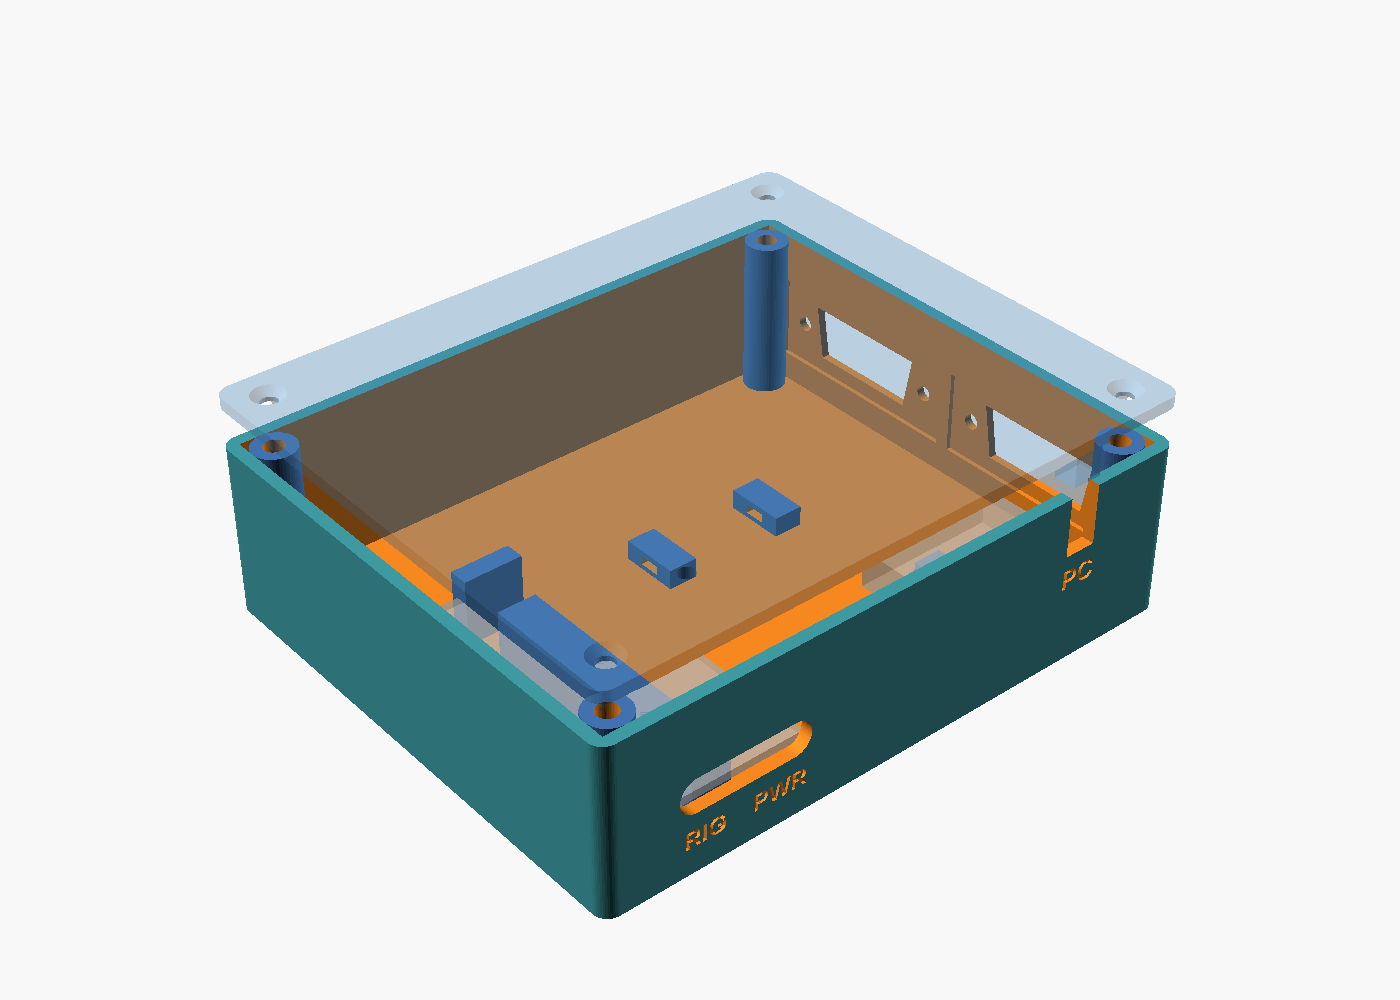
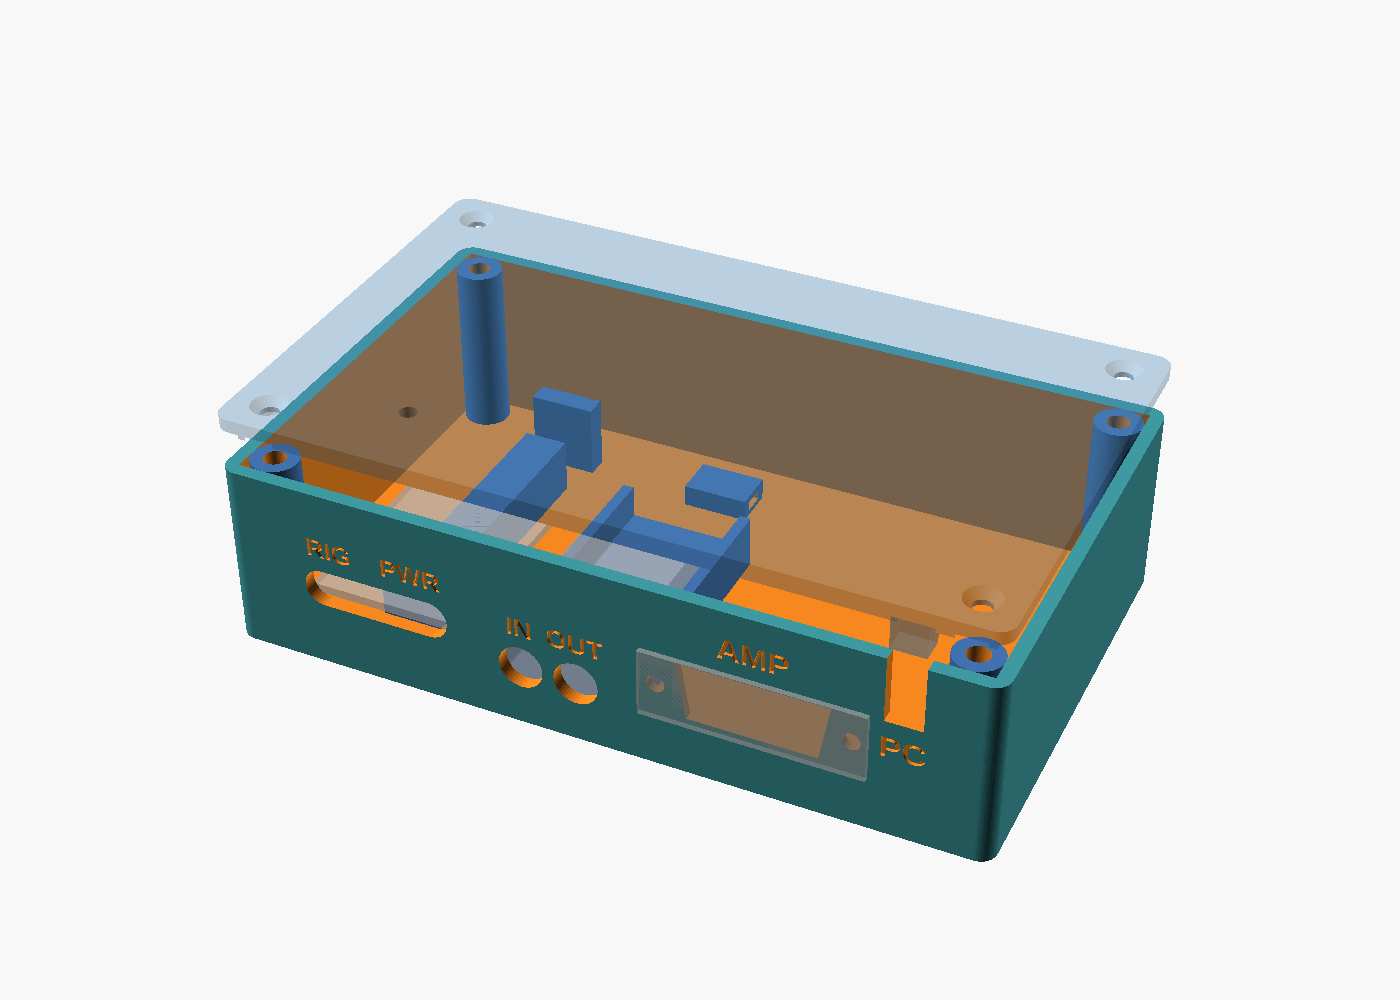
Enclosure draft 2: one connector panel, dongle jacks on the panel
Connectors were spread over two walls; everything now leaves on the back
panel. The radio's panel DB15 and internal resistor pad are replaced by a
separate DB15 -> 2 x 1/8" cable (resistors in the plug hood) into the
CM108's own jacks, which face the panel. Fewer parts, and the cable can be
bench-tested before the box is printed.

Changed region(s): [[0.1536, 0.155, 0.86, 0.93]]

diff --git a/enclosure/README.md b/enclosure/README.md
@@ -1,59 +1,77 @@
 # Enclosure
 
-3D-printed box for the S3 board, the CM108 audio dongle and the two DB15
-panel connectors. Plan and wiring: [`docs/BOX_PLAN.md`](../docs/BOX_PLAN.md).
+3D-printed box for the S3 board and the CM108 audio dongle. Plan and
+wiring: [`docs/BOX_PLAN.md`](../docs/BOX_PLAN.md).
 
 ![preview](preview.png)
 
-**Status: first draft (2026-11-14), not printed.** Outer size 125 × 105 ×
-36.8 mm. The base and lid render without errors. Several sizes are datasheet
-values or guesses. They are marked `CHECK` in `rgo_box.scad`. Measure the
-parts and correct the values before printing.
+**Status: draft 2 (2026-11-14), not printed.** Outer size 137 × 83 ×
+36.8 mm. The base and lid render without errors and all layout checks pass.
+Some sizes are datasheet values or guesses. They are marked `CHECK` in
+`rgo_box.scad`; measure the parts and correct those values before printing.
 
-## Parts
+## Panel
 
-- **Base:** the floor and walls, with everything mounted in it.
-  - **Back wall:** one slot over both USB-C sockets of the S3. RIG (native)
-    is on the left, PWR (COM) on the right, seen from outside. It also has a
-    notch at the top for the PC cable.
-  - **Right end wall:** DB15 male (RADIO) and DB15 female (AMP). The wall is
-    thinned to 1.6 mm around each one, so the jack screws reach.
-  - **Board mounting:** the S3 sits on a rib between its header rows, held
-    with foam tape. A stop block behind it stops the board moving back when a
-    cable is plugged in.
-  - **Zip-tie anchors:** three, for the dongle and the USB extension socket.
-  - **Corner posts:** four, with M3 heat-set inserts.
-- **Lid:** a flat plate with a locating lip and 4 countersunk M3 holes.
-  - A tab closes the cable notch down to cable size, so the USB-A plug never
-    has to go through a hole.
-  - A 3.2 mm window sits over the status LED.
+All connectors are on one panel, the back wall. Seen from outside, left to
+right:
+
+| Label | What | Cable |
+|---|---|---|
+| RIG | S3 native USB-C | → radio USB-B (CAT) |
+| PWR | S3 COM USB-C | ← USB charger (USB-A → USB-C cable) |
+| IN | CM108 mic jack (1/8") | ← radio RX audio |
+| OUT | CM108 headphone jack (1/8") | → radio TX audio |
+| AMP | DB15 female | → SPE amp (DB15 M–M cable) |
+| PC | Notch for the dongle's USB extension cable | → PC |
+
+The radio audio cable has a DB15 male plug on ACC1, with the resistors
+inside its hood, and two 1/8" plugs on the other end. It is not part of the
+box. See `docs/BOX_PLAN.md`.
+
+## Inside
+
+- **S3 board:** its two USB-C sockets show through one slot. It sits on a
+  rib between its header rows, held with foam tape. A stop block behind it
+  keeps it from moving back when a cable is plugged in.
+- **CM108 dongle:** lies in a cradle with its jack end against the panel. A
+  zip tie through the cradle floor holds it. The USB extension socket sits
+  behind it on a zip-tie anchor.
+- **DB15 for the amp:** the wall is thinned to 1.6 mm around it, so the jack
+  screws reach.
+- **PC cable notch:** a tab on the lid closes it down to cable size, so the
+  USB-A plug never has to go through a hole.
+- **Lid:** 4 × M3 countersunk screws into heat-set inserts in the corner
+  posts. A 3.2 mm window sits over the status LED.
 
 ## Check before printing
 
 | Parameter | Default | Measure |
 |---|---|---|
+| `dongle_l`, `dongle_w`, `dongle_h` | 50 × 20 × 10 | CM108 dongle, from the jack end to the end of its USB plug |
+| `jack_pitch`, `jack_z`, `mic_left` | 10, 5, true | Centre-to-centre of the dongle's jacks, jack centre above its underside, and which side the mic jack is on |
 | `pcb_l`, `pcb_w` | 63.5 × 28 | S3 board outline |
 | `pin_clear` | 10 | Floor to board underside. The default assumes wires soldered to the pins. Dupont jumpers on downward pins need about 20 (raise `in_h` too) |
 | `usbc_z_above_pcb` | 1.6 | Height of the USB-C socket centre above the board's top face |
 | `led_x`, `led_y` | 14, 12 | Position of the RGB LED on the board |
 | `notch_w` | 6.5 | USB extension cable diameter + 1 |
-| `ties` | 3 anchors | Positions to suit the dongle and the extension socket |
 | `insert_hole_d` | 4.0 | The bore your M3 heat-set inserts need |
 
 ## Use
 
 1. Open `rgo_box.scad` in OpenSCAD and set the parameters in the Customizer.
 2. `part = "assembly"` shows the box with ghost parts and prints the outer
-   size.
-3. Export each part as STL. `part = "base"` prints upright. `part = "lid"` is
-   already flipped, lip up. No supports are needed. Use PETG or PLA with a
-   0.2 mm layer height.
+   size. Asserts stop the render if parts collide.
+3. Export each part as STL:
+   - `part = "base"` prints upright;
+   - `part = "lid"` is already flipped, lip up.
+
+   No supports are needed. Use PETG or PLA with a 0.2 mm layer height.
 4. Melt the 4 inserts into the posts. The lid screws are M3 × 8 flat-head.
 
 Rendered STLs go in `stl/`, which git ignores.
 
-## Print notes
+## RF
 
 The box is plastic and does not shield anything. If RF gets into the S3 or
 the audio with the amp keyed, line the inside with copper tape connected to
-radio ground. Put a ferrite clamp on every cable.
+ground. Put a ferrite clamp on every cable.

diff --git a/HANDOVER.md b/HANDOVER.md
@@ -282,6 +282,12 @@ radio → SPE path doesn't need Wi-Fi.
 
 ## What changed
 
+- **2026-11-14** — Enclosure draft 2: all connectors on ONE panel (RIG/PWR
+  USB-C slot, IN/OUT = the CM108's own 1/8" jacks through the wall, AMP
+  DB15 female, PC cable notch). The radio panel DB15 is gone: radio audio is
+  now a separate cable (DB15 male on ACC1 with the 3 resistors in its hood →
+  two 1/8" plugs), only 3 wires. 137 × 83 × 36.8 mm; dongle sizes still
+  `CHECK`.
 - **2026-11-14** — Enclosure first draft: `enclosure/rgo_box.scad` (125 ×
   105 × 36.8 mm, base + screw-down lid, M3 heat-set inserts). S3 USB-Cs
   through a back-wall slot, PC cable through a notch the lid closes, both
